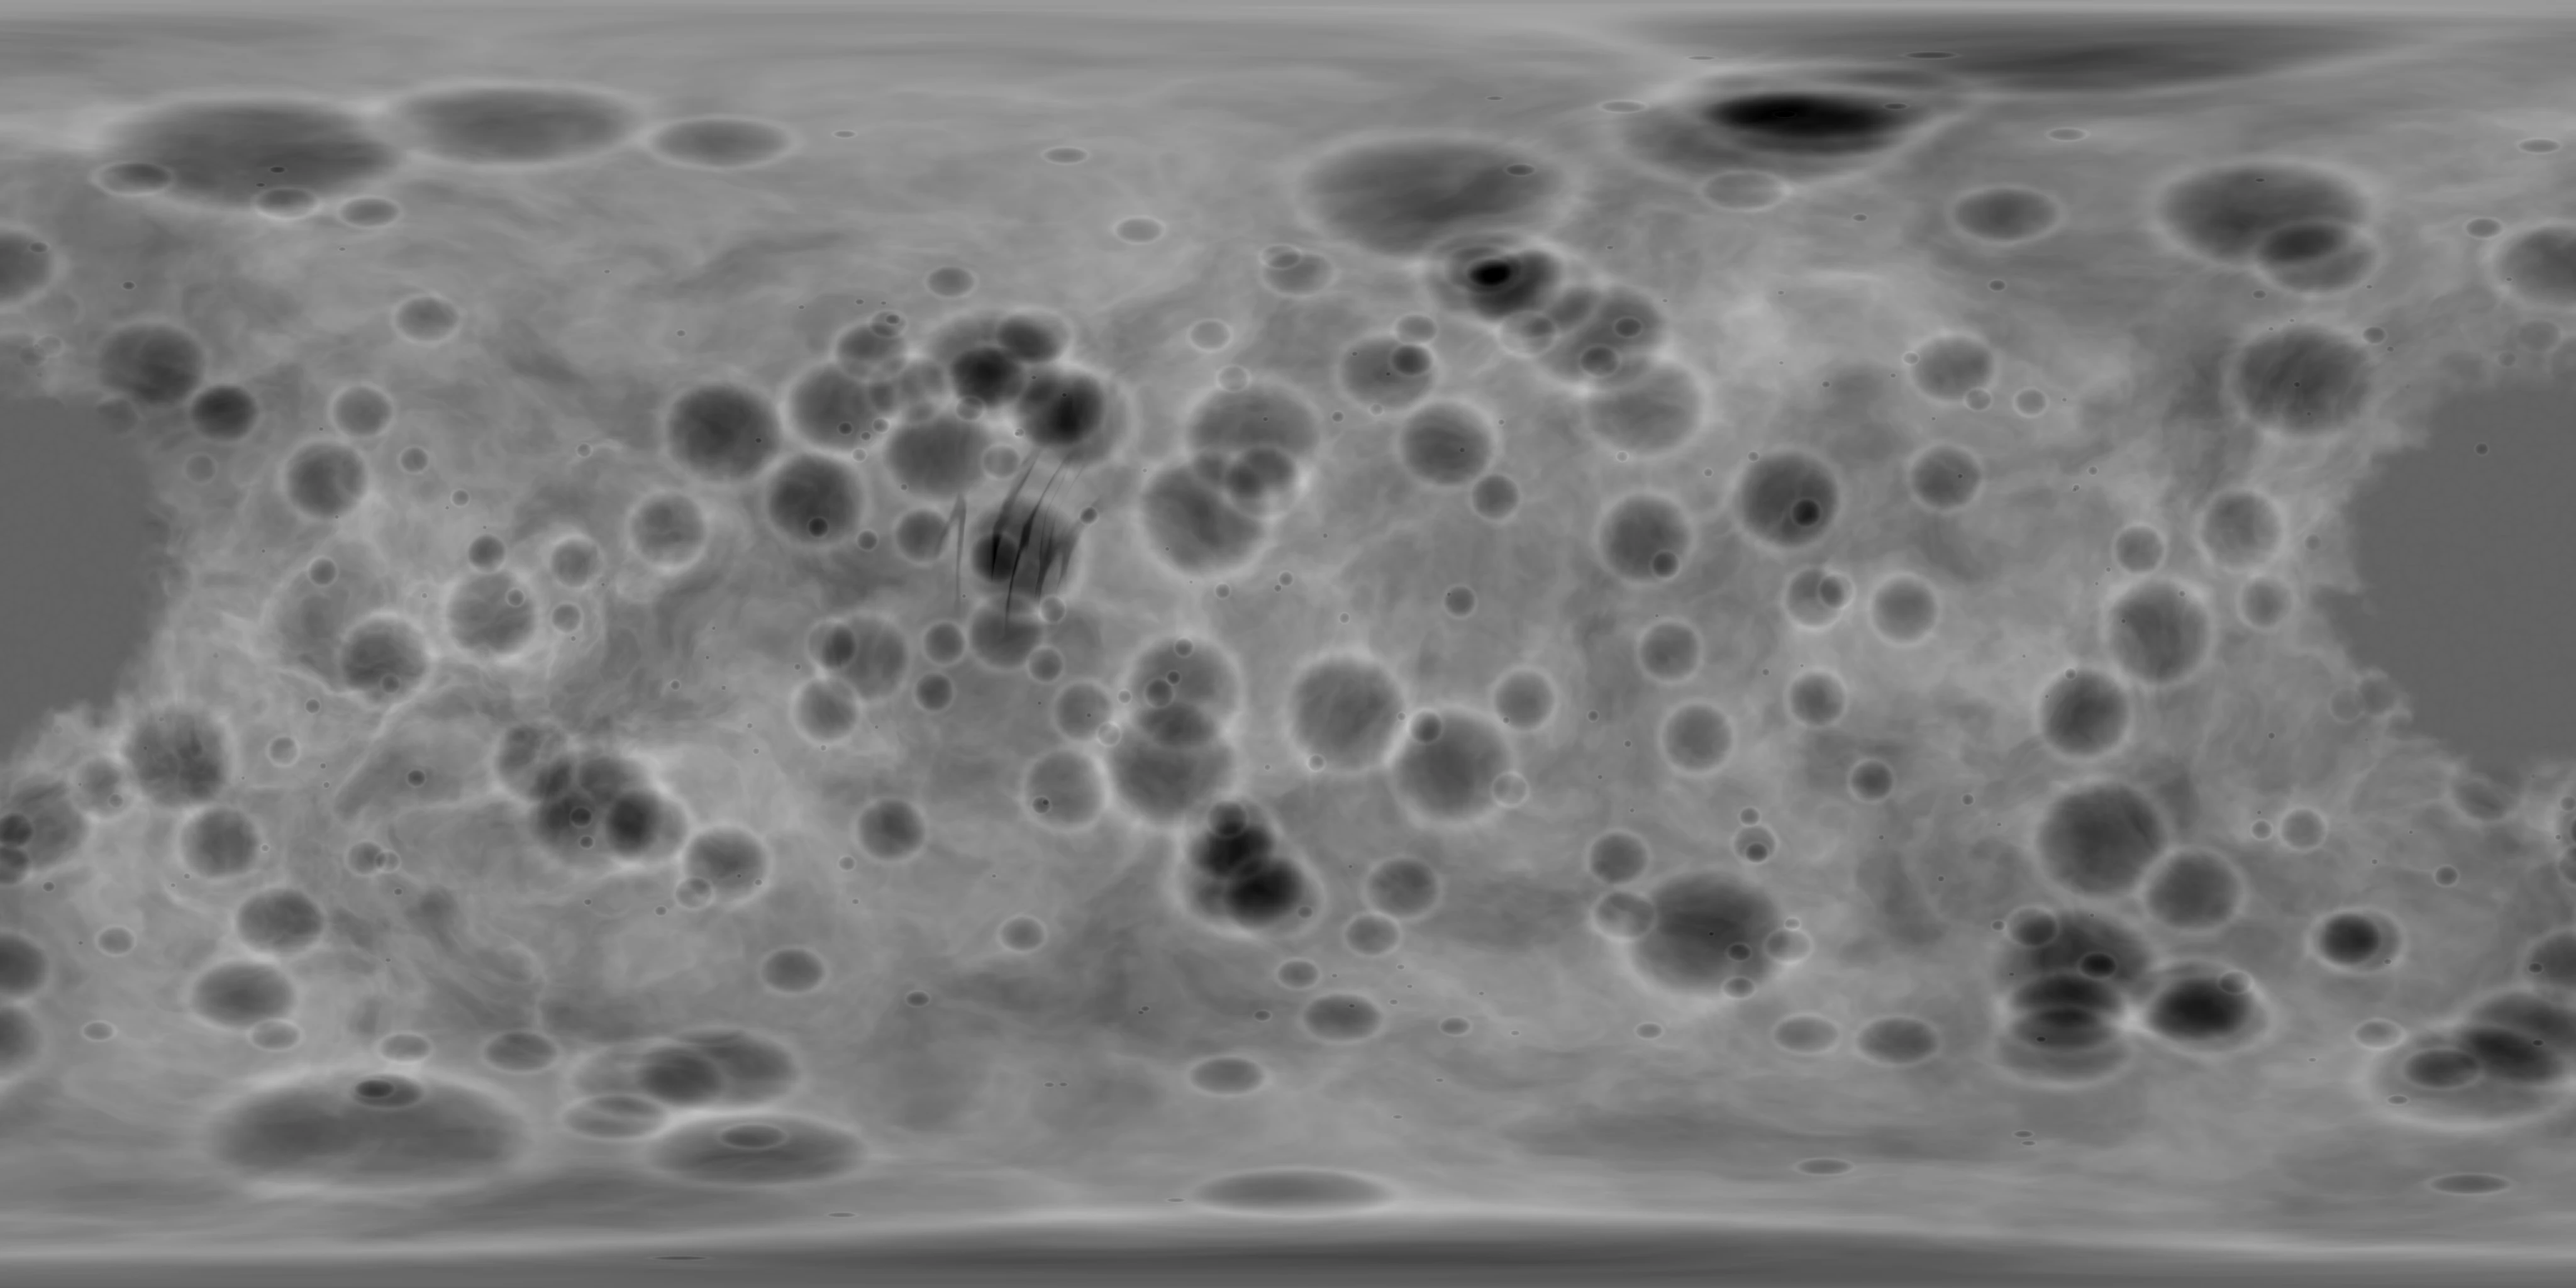
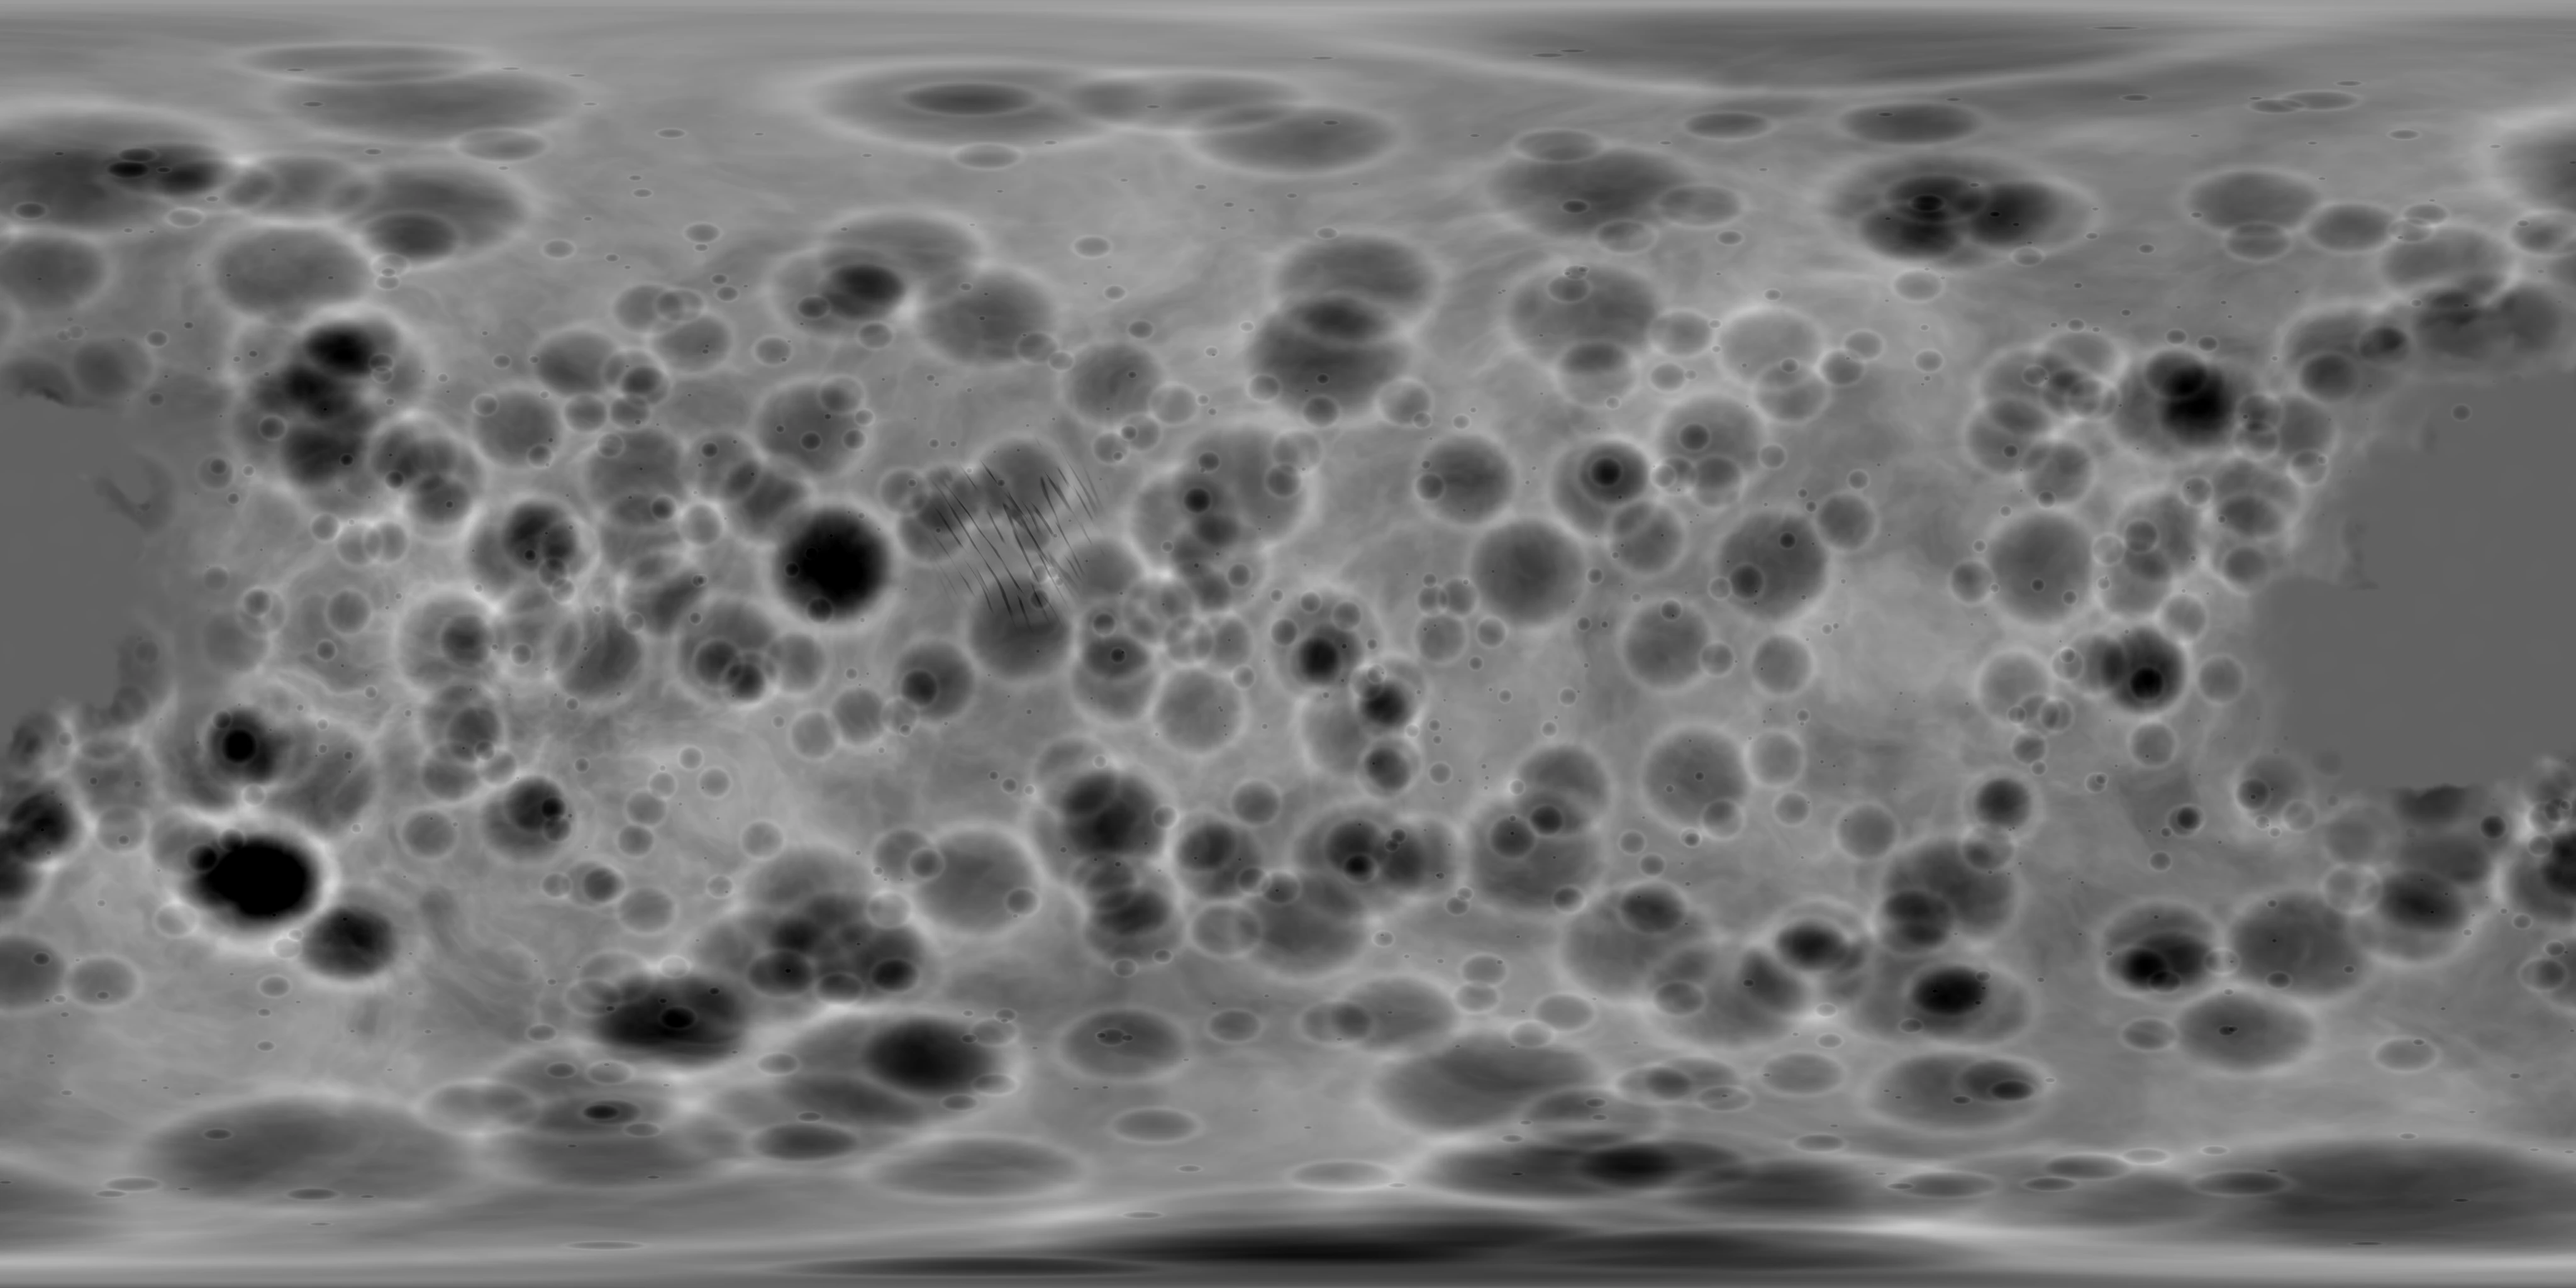
Hielo review fixes: heart-shaped plain with soft cells and a gentle edge, textured dark land, chasms laid along the surface, more craters, visible outposts; belt: chipped dark rocks in more shapes, a thin band with a stream of fine rocks, rocks shrink away near the camera
Claude-Session: https://claude.ai/code/session_01K8R5kqduobr76DoBg9xGr3

diff --git a/web/src/lib/system/AsteroidBelt.svelte b/web/src/lib/system/AsteroidBelt.svelte
@@ -1,7 +1,7 @@
 <script lang="ts">
 	// The asteroid belt: thousands of rocks along an arc, as a few instanced meshes (one per rock
 	// shape). The belt orbits nothing (DM, Nov 2026), so the rocks stay put; each tumbles slowly.
-	import { T, useTask } from '@threlte/core';
+	import { T, useTask, useThrelte } from '@threlte/core';
 	import { onDestroy } from 'svelte';
 	import * as THREE from 'three';
 	import { mergeVertices } from 'three/examples/jsm/utils/BufferGeometryUtils.js';
@@ -43,33 +43,55 @@
 
 	/** A lumpy rock: an icosphere pushed in and out by a few random bumps, then squashed. */
 	function rock(r: () => number) {
-		const g = mergeVertices(new THREE.IcosahedronGeometry(1, 3));
+		const g = mergeVertices(new THREE.IcosahedronGeometry(1, 4));
 		const pos = g.attributes.position;
 		// Broad lobes, then a few craters: narrow dents with a slight raised rim.
 		const bumps = [
 			...Array.from({ length: 7 }, () => ({
 				d: new THREE.Vector3(gauss(r), gauss(r), gauss(r)).normalize(),
-				k: (r() - 0.45) * 0.5,
+				k: (r() - 0.45) * 0.9,
 				w: 2 + r() * 5
 			})),
 			...Array.from({ length: 6 }, () => ({
 				d: new THREE.Vector3(gauss(r), gauss(r), gauss(r)).normalize(),
-				k: -0.06 - 0.08 * r(),
+				k: -0.03 - 0.04 * r(),
 				w: 25 + r() * 60
 			}))
 		];
+		// Chipped faces: a few planes slice the rock, leaving flat facets and edges (without them
+		// every rock read as a smooth egg).
+		const cuts = Array.from({ length: 5 + Math.floor(r() * 5) }, () => ({
+			n: new THREE.Vector3(gauss(r), gauss(r), gauss(r)).normalize(),
+			d: 0.6 + 0.3 * r()
+		}));
 		const v = new THREE.Vector3();
 		for (let i = 0; i < pos.count; i++) {
 			v.fromBufferAttribute(pos, i);
 			let s = 1;
 			for (const b of bumps) s += b.k * Math.exp(-b.w * (1 - v.dot(b.d)));
 			// Fine roughness, so a rock isn't smooth as a pebble.
-			s += 0.05 * Math.sin(v.x * 7 + 1.7) * Math.sin(v.y * 9 + 0.3) * Math.sin(v.z * 6 + 2.1);
+			s += 0.09 * Math.sin(v.x * 5 + 1.7) * Math.sin(v.y * 9 + 0.3) * Math.sin(v.z * 6 + 2.1);
 			s += 0.025 * Math.sin(v.x * 19 + 0.4) * Math.sin(v.y * 23 + 2.2) * Math.sin(v.z * 17 + 1.1);
 			v.multiplyScalar(s);
+			for (const c of cuts) {
+				const over = v.dot(c.n) - c.d;
+				if (over > 0) v.addScaledVector(c.n, -over * 0.9);
+			}
 			pos.setXYZ(i, v.x, v.y, v.z);
 		}
-		g.scale(1, 0.6 + 0.4 * r(), 0.7 + 0.3 * r());
+		// Squashed and stretched; now and then a long one or a peanut (two lobes touching).
+		const kind = r();
+		if (kind < 0.2) g.scale(1.8, 0.6 + 0.3 * r(), 0.7 + 0.2 * r());
+		else if (kind < 0.3) {
+			const p2 = g.attributes.position;
+			for (let i = 0; i < p2.count; i++) {
+				const x = p2.getX(i);
+				p2.setX(i, x * 1.5);
+				const pinch = 1 - 0.35 * Math.exp(-(x * x) * 6);
+				p2.setY(i, p2.getY(i) * pinch);
+				p2.setZ(i, p2.getZ(i) * pinch);
+			}
+		} else g.scale(1, 0.45 + 0.4 * r(), 0.6 + 0.3 * r());
 		g.computeVertexNormals();
 		return g;
 	}
@@ -77,9 +99,9 @@
 	// Fixed for the belt's lifetime.
 	// svelte-ignore state_referenced_locally
 	const r = rng(seed);
-	const SHAPES = 6;
+	const SHAPES = 14;
 	const geometries = Array.from({ length: SHAPES }, () => rock(r));
-	const material = new THREE.MeshStandardMaterial({ roughness: 0.95, metalness: 0, flatShading: true });
+	const material = new THREE.MeshStandardMaterial({ roughness: 0.95, metalness: 0 });
 
 	type Rock = { pos: THREE.Vector3; scale: number; quat: THREE.Quaternion; axis: THREE.Vector3; spin: number };
 	const rocks: Rock[][] = Array.from({ length: SHAPES }, () => []);
@@ -115,8 +137,9 @@
 			// Grey and brown rock, some pale icy bodies; darker small ones (dust-coated).
 			const ice = r() < icy;
 			// Asteroids are dark (most reflect 5–20% of light); the icy ones a pale blue-grey, not snow.
-			const l = ice ? 0.36 + 0.14 * r() : 0.12 + 0.14 * r();
-			const warm = ice ? -0.03 : 0.04 * r();
+			const l = ice ? 0.12 + 0.06 * r() : 0.04 + 0.1 * r();
+			// Slightly cool, as the warm sun tints neutral grey toward tan.
+			const warm = ice ? -0.02 : -0.012 + 0.015 * r();
 			colours[shape].push(new THREE.Color(l + warm, l, l - warm + (ice ? 0.05 : 0)));
 			placed++;
 		}
@@ -129,7 +152,9 @@
 		m.frustumCulled = false;
 		return m;
 	});
+	const { camera } = useThrelte();
 	const matrix = new THREE.Matrix4();
+	const world = new THREE.Vector3();
 	const turn = new THREE.Quaternion();
 	const scl = new THREE.Vector3();
 	function update(delta: number) {
@@ -137,7 +162,10 @@
 			rocks[i].forEach((k, j) => {
 				turn.setFromAxisAngle(k.axis, k.spin * delta);
 				k.quat.premultiply(turn);
-				matrix.compose(k.pos, k.quat, scl.setScalar(k.scale));
+				// Rocks shrink away as the camera comes close, so none ever fills the view.
+				world.copy(k.pos);
+				const near = Math.min(Math.max((camera.current.position.distanceTo(world) - 0.6) / 1.2, 0), 1);
+				matrix.compose(k.pos, k.quat, scl.setScalar(k.scale * near * near * (3 - 2 * near)));
 				m.setMatrixAt(j, matrix);
 			});
 			m.instanceMatrix.needsUpdate = true;

diff --git a/web/src/routes/system/lab/+page.svelte b/web/src/routes/system/lab/+page.svelte
@@ -184,9 +184,9 @@
 				radius={30}
 				arc={[-Math.PI / 2 - 0.7, -Math.PI / 2 + 0.7]}
 				width={1.4}
-				thickness={0.3}
-				count={5000}
-				size={[0.006, 0.16]}
+				thickness={0.12}
+				count={12000}
+				size={[0.003, 0.12]}
 				clear={[
 					{ at: [0, 0, 0], radius: 1.1 },
 					{ at: [0.4, 0.5, 2.6], radius: 2.2 }

diff --git a/tools/planets/hielo.py b/tools/planets/hielo.py
@@ -54,16 +54,17 @@ from planetgen import (
 )
 
 SEED = 1616
-PLAIN = (10, 175, 30)  # centre and radius°: the bright smooth ice plain
+PLAIN = (10, 175, 30)
+PLAIN2 = (-6, 157, 20)  # a second, offset lobe: the plain is heart-like, not a disc  # centre and radius°: the bright smooth ice plain
 DARK = (-15, -120, 48)  # the dark rough land
 CHASMS = (16, -38, 12)  # the ice-cave country
-CRATERS = 420
+CRATERS = 1200
 RAYED = 6
 LIGHTS = [
-    (5, 10, 0.12, 0.9),  # Hammer and Kiln's Hiobium works
-    (-10, 60, 0.06, 0.5),  # the science station
-    (50, -90, 0.04, 0.35),  # Bode Augur's camp
-    (16.5, -36.5, 0.04, 0.35),  # Whidmore's canisters in the ice caves
+    (5, 10, 0.4, 0.9),  # Hammer and Kiln's Hiobium works
+    (-10, 60, 0.25, 0.6),  # the science station
+    (50, -90, 0.12, 0.45),  # Bode Augur's camp
+    (16.5, -36.5, 0.15, 0.45),  # Whidmore's canisters in the ice caves
 ]
 LAMP = np.array([1.0, 0.85, 0.65], np.float32)
 
@@ -82,7 +83,8 @@ def generate(width: int, out: Path) -> None:
     detail = fbm(n[5], p * 24 + warp * 2, 4)
 
     # The plain: a lobed basin, edged by noise so its shore wanders.
-    pd = angular_distance(g, PLAIN[0], PLAIN[1]) / PLAIN[2] + 0.35 * fbm(n[6], p * 3 + warp, 4) + 0.08 * fbm(n[7], p * 14, 3)
+    pd = np.minimum(angular_distance(g, PLAIN[0], PLAIN[1]) / PLAIN[2], angular_distance(g, PLAIN2[0], PLAIN2[1]) / PLAIN2[2])
+    pd = pd + 0.6 * fbm(n[6], p * 3 + warp, 4) + 0.1 * fbm(n[7], p * 14, 3)
     plain = smoothstep(1.0, 0.8, pd)
     # A margin where the plain's ice laps over the old land: paler, smoothed, partly buried.
     margin = smoothstep(1.35, 1.0, pd) * (1 - plain)
@@ -96,7 +98,7 @@ def generate(width: int, out: Path) -> None:
     crat = np.zeros(g.lat.shape, np.float32)
     ejecta = np.zeros(g.lat.shape, np.float32)
     lats, lons = random_points(rng, CRATERS, (-88, 88))
-    radii = 0.3 + 9.0 * rng.uniform(0, 1, CRATERS) ** 3
+    radii = 0.25 + 9.0 * rng.uniform(0, 1, CRATERS) ** 4
     for la, lo, r in zip(lats, lons, radii):
         rows = np.where(np.abs(lat[:, 0] - la) < 3 * r + 0.5)[0]
         sub = (slice(rows[0], rows[-1] + 1), slice(None))
@@ -127,9 +129,9 @@ def generate(width: int, out: Path) -> None:
     print(f"craters {time.time() - t0:.1f}s")
 
     # Convection cells on the plain: gentle tone and height between cell centres and edges.
-    f1, f2, cid = worley(p * 28 + 0.6 * warp + 0.05 * np.stack([fbm(n[9], p * 60, 2)] * 3, -1), SEED)
+    f1, f2, cid = worley(p * 10 + 0.6 * warp + 0.05 * np.stack([fbm(n[9], p * 60, 2)] * 3, -1), SEED)
     # Soft rounded domes with broad shallow troughs, not tiles: a sharp edge drew a crazed web.
-    cell_edge = smoothstep(0.0, 0.25, f2 - f1)  # 0 at the troughs
+    cell_edge = smoothstep(0.0, 0.5, f2 - f1)  # 0 at the troughs
     cell_tone = (cid % 97) / 96.0
 
     # Chasms: long, sub-parallel graben, from a stretched ridged field, inside the cave country.
@@ -137,13 +139,24 @@ def generate(width: int, out: Path) -> None:
     field = smoothstep(1.2, 0.5, cd)
     # Squashed hard along one axis so the crests run long and nearly parallel (graben, as on
     # Charon), few octaves so they're continuous valleys, not scratches.
-    stretch = np.array([5.0, 0.6, 0.6], np.float32)
-    trough = smoothstep(0.62, 0.86, ridged(n[10], p * stretch * 4 + warp * 0.3, 2)) * field
+    # Laid out in the surface's own frame at the cave country, so they run parallel there.
+    c = unit(CHASMS[0], CHASMS[1])
+    east = np.cross([0, 0, 1], c)
+    east /= np.linalg.norm(east)
+    north = np.cross(c, east)
+    ang = np.radians(30)
+    across = (p @ east) * np.cos(ang) + (p @ north) * np.sin(ang)
+    along = -(p @ east) * np.sin(ang) + (p @ north) * np.cos(ang)
+    q = np.stack([across * 30, along * 3, (p @ c) * 3], -1) + 0.4 * warp
+    trough = smoothstep(0.75, 0.9, ridged(n[10], q, 2)) * field
     print(f"plain+chasms {time.time() - t0:.1f}s")
 
     # Height: one field, the plain sunk and flat, chasms cut, craters.
     h = 0.5 + 0.25 * base + 0.12 * (ridges - 0.5) * (1 + dark) + 0.03 * detail
-    h = h * (1 - plain) + (0.38 + 0.01 * cell_edge) * plain
+    # The plain's ice laps up over a wide margin, so its edge is a gentle slope, not a scarp
+    # (a narrow drop cast a hard straight line in low sun).
+    sink = smoothstep(1.45, 0.8, pd)
+    h = h * (1 - sink) + (0.38 + 0.003 * cell_edge) * sink
     h = h + crat - 0.15 * trough
     height = np.clip(h, 0, 1)
 
@@ -157,17 +170,17 @@ def generate(width: int, out: Path) -> None:
         ],
     )
     upland = upland * (0.9 + 0.12 * detail[..., None])
-    darkrgb = np.array([0.3, 0.29, 0.28], np.float32) * (0.85 + 0.3 * ridges[..., None])
+    darkrgb = np.array([0.23, 0.22, 0.215], np.float32) * (0.8 + 0.4 * ridges[..., None]) * (0.9 + 0.2 * detail[..., None])
     rgb = upland * (1 - 0.85 * dark[..., None]) + darkrgb * 0.85 * dark[..., None]
     # Crater floors a little darker, ejecta a little brighter: old dust over ice.
     floor = np.clip(-crat * 8, 0, 1)[..., None]
     rgb = rgb * (1 - 0.06 * floor) * (1 + 0.1 * np.clip(ejecta, 0, 1)[..., None])
     rgb = rgb * (1 - rays[..., None] * 0.45) + np.array([0.84, 0.86, 0.88], np.float32) * rays[..., None] * 0.45
     # Chasm floors: fresh bluish ice.
-    rgb = rgb * (1 - 0.5 * trough[..., None]) + np.array([0.55, 0.65, 0.75], np.float32) * 0.5 * trough[..., None]
+    rgb = rgb * (1 - 0.25 * trough[..., None]) + np.array([0.55, 0.62, 0.7], np.float32) * 0.25 * trough[..., None]
     # The plain: bright cream-white ice, cells faintly varied, troughs barely darker.
     # Neutral, a touch cool: a cream white rendered khaki-olive under the warm sun.
-    plainrgb = np.array([0.82, 0.83, 0.85], np.float32) * (0.96 + 0.05 * cell_tone[..., None]) * (0.96 + 0.04 * cell_edge[..., None])
+    plainrgb = np.array([0.75, 0.76, 0.78], np.float32) * (0.96 + 0.05 * cell_tone[..., None]) * (0.96 + 0.04 * cell_edge[..., None])
     rgb = rgb * (1 - 0.5 * margin[..., None]) + np.array([0.78, 0.78, 0.77], np.float32) * 0.5 * margin[..., None]
     rgb = rgb * (1 - plain[..., None]) + plainrgb * plain[..., None]
     # Polar frost: soft, ragged, brightest at the poles.
